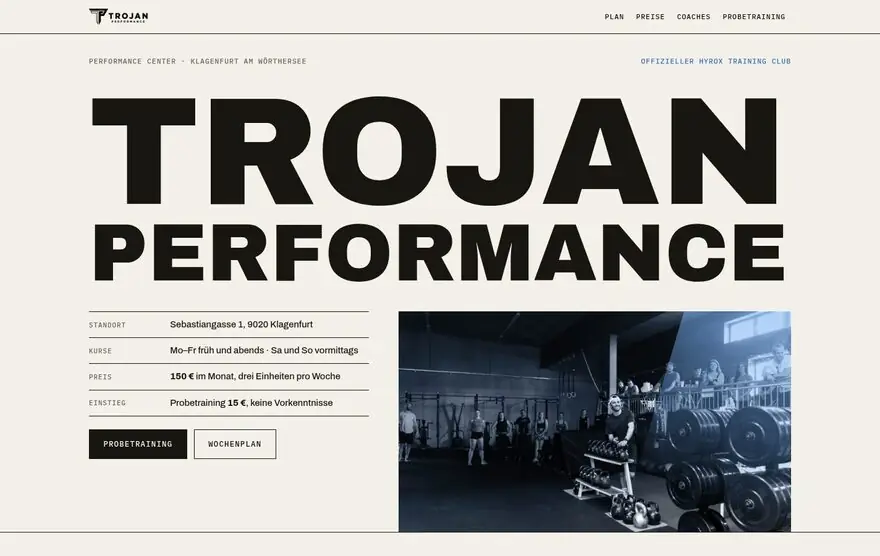
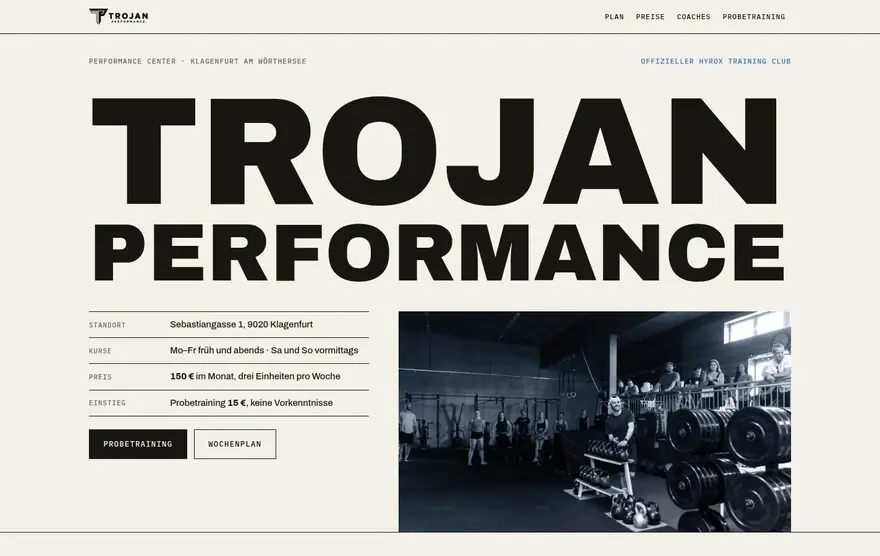
Rotstift: der Keil ist wieder weg, der Blaustich bleibt
Die Speerspitze über dem Heldenbild nimmt der Seite mehr, als sie ihr gibt: sie
bringt eine zweite Geste in einen Entwurf, dessen ganzer Witz darin besteht,
dass es nur eine gibt. Der leichte Blaustich bleibt, unverändert bei 0,26.

Claude-Session: https://claude.ai/code/session_011seyKRZKnHmVqc44yjkGAQ

Changed region(s): [[0.7364, 0.5504, 0.9205, 0.8867]]

diff --git a/rotstift/index.html b/rotstift/index.html
@@ -152,17 +152,6 @@ figure.bild img{width:100%;filter:grayscale(1) contrast(1.1) brightness(1.04)}
   background:linear-gradient(158deg,#78B0F2 0%,#2A5FA0 44%,#12243A 100%);
   mix-blend-mode:color;opacity:.26;
 }
-/* Die Speerspitze aus der Wortmarke, als diagonaler Streifen über dem Bild —
-   dasselbe Element wie in Arenas Bühne, samt heller Kante an der Schräge. Ein
-   eigenes Element und kein Pseudo: die Farblage darüber ist schon ::after, und
-   ::before läge unter dem Bild. z-index hebt den Keil über die Farblage, sonst
-   würde die ihn mit einfärben. */
-.keil{
-  position:absolute;right:0;top:0;bottom:0;width:44%;z-index:2;pointer-events:none;
-  background:linear-gradient(200deg,rgba(111,170,240,.42),rgba(57,113,183,.16) 55%,transparent 78%);
-  clip-path:polygon(38% 0,100% 0,100% 100%,0 100%);
-  filter:drop-shadow(-1px 0 0 rgba(150,196,255,.8));
-}
 
 /* ---------- Blöcke ---------- */
 .block{border-top:1px solid var(--tinte);padding:3.2rem 0 3.8rem}
@@ -455,7 +444,6 @@ figure.bild img{width:100%;filter:grayscale(1) contrast(1.1) brightness(1.04)}
         </div>
       </div>
       <figure class="bild blau">
-        <span class="keil" aria-hidden="true"></span>
         <picture><source type="image/webp" srcset="../assets/o-hero.webp"><img src="../assets/o-hero.jpg" width="1365" height="768" fetchpriority="high" alt="Trainingsfläche von oben: Hantelrack, dahinter eine Trainingsgruppe"></picture>
       </figure>
     </div>

diff --git a/src/trojan-H-rotstift.src.html b/src/trojan-H-rotstift.src.html
@@ -150,17 +150,6 @@ figure.bild img{width:100%;filter:grayscale(1) contrast(1.1) brightness(1.04)}
   background:linear-gradient(158deg,#78B0F2 0%,#2A5FA0 44%,#12243A 100%);
   mix-blend-mode:color;opacity:.26;
 }
-/* Die Speerspitze aus der Wortmarke, als diagonaler Streifen über dem Bild —
-   dasselbe Element wie in Arenas Bühne, samt heller Kante an der Schräge. Ein
-   eigenes Element und kein Pseudo: die Farblage darüber ist schon ::after, und
-   ::before läge unter dem Bild. z-index hebt den Keil über die Farblage, sonst
-   würde die ihn mit einfärben. */
-.keil{
-  position:absolute;right:0;top:0;bottom:0;width:44%;z-index:2;pointer-events:none;
-  background:linear-gradient(200deg,rgba(111,170,240,.42),rgba(57,113,183,.16) 55%,transparent 78%);
-  clip-path:polygon(38% 0,100% 0,100% 100%,0 100%);
-  filter:drop-shadow(-1px 0 0 rgba(150,196,255,.8));
-}
 
 /* ---------- Blöcke ---------- */
 .block{border-top:1px solid var(--tinte);padding:3.2rem 0 3.8rem}
@@ -453,7 +442,6 @@ figure.bild img{width:100%;filter:grayscale(1) contrast(1.1) brightness(1.04)}
         </div>
       </div>
       <figure class="bild blau">
-        <span class="keil" aria-hidden="true"></span>
         <img src="__PH_HERO__" width="1365" height="768" fetchpriority="high" alt="Trainingsfläche von oben: Hantelrack, dahinter eine Trainingsgruppe">
       </figure>
     </div>
